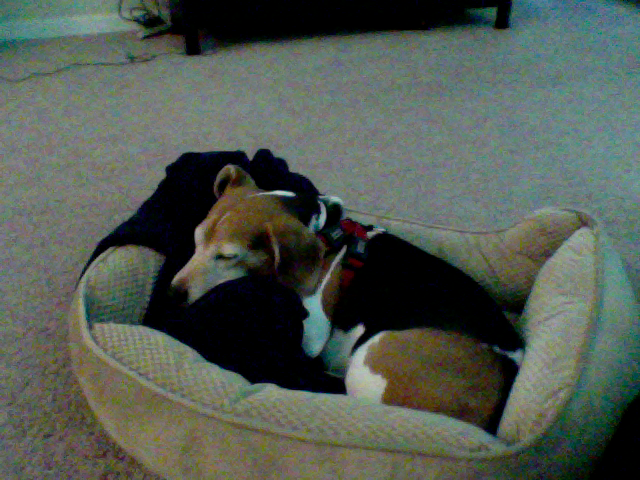
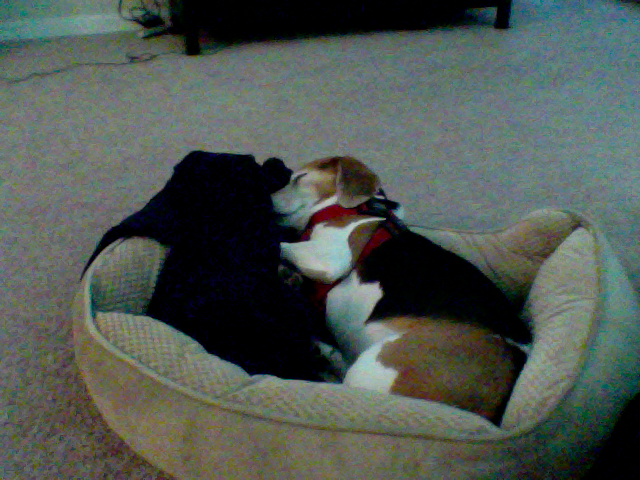
update at Month05Day12Time09:03

diff --git a/index.html b/index.html
@@ -39,8 +39,8 @@
       <!-- Example row of columns -->
       <div class="row">
         <div class="col-md-4">
-	<p>This picture was updated at Month05Day12Time09:02</p>
-		<img src="2_pic.png" />
+	<p>This picture was updated at Month05Day12Time09:03</p>
+		<img src="1_pic.png" />
         </div>
       </div>
 
